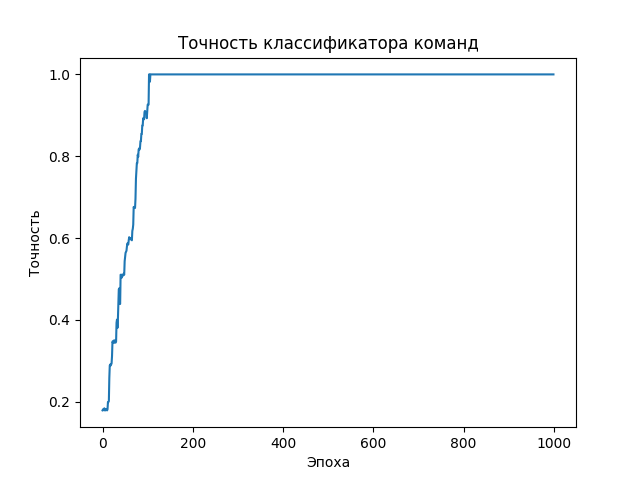
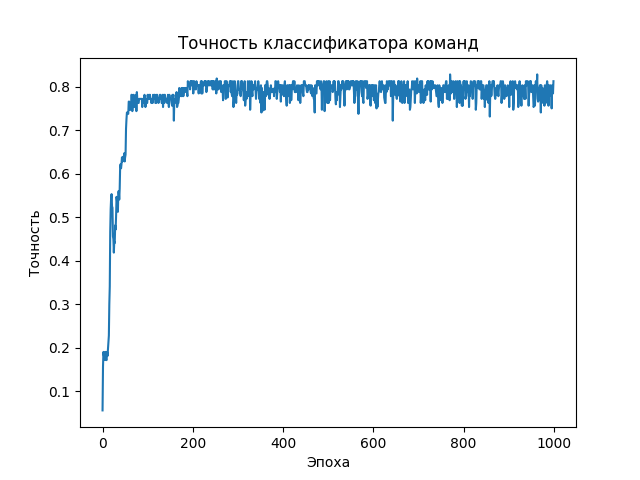
Added word augmentation which slowed down the process of training, but improved neural network

diff --git a/ai/dataset.py b/ai/dataset.py
@@ -3,59 +3,121 @@ from loguru import logger
 
 import torch
 from torch.utils.data import Dataset
+import pymorphy3
 
-from ai.nltk_utils import tokenize, stem, bag_of_words, get_stopwords, filter_numbers
+
+from ai.nltk_utils import tokenize, stem, bag_of_words, get_stopwords, is_number
 from ai import DEVICE
 
-from config.nn import DATASET_FILE_PATH
+from config.nn import DATASET_FILE_PATH, VOCABULARY_FILE_PATH
+
+
+def preprocess(command, pattern):
+    tokens = tokenize(pattern)
+    morph = pymorphy3.MorphAnalyzer()
+    stop_words = get_stopwords()
+    stop_words.extend([".", ","])
+    
+    tokens = [word for word in tokens 
+              if not is_number(word) 
+              and morph.parse(word)[0].score > 0.4
+              and word not in stop_words
+    ]
+    
+    for_vocab = [stem(token) for token in tokens]
+    for_train_data = [(command, [stem(token) for token in tokens])]
+    
+    word_forms = ('gent', 'datv', 'accs', 'ablt', 'loct')
+    for form in word_forms:
+        
+        form_tokens = []
+        for word in tokens:
+            new_word = morph.parse(word)[0].inflect({form})
+            if not new_word:
+                break
+            form_tokens.append(new_word.word)
+            for_vocab.append(stem(new_word.word))
+        
+        if form_tokens:
+            for_train_data.append((command, [stem(token) for token in form_tokens]))
+            
+
+    return for_vocab, for_train_data
+
+
 
 class CommandDataset(Dataset):
     
     __instance = None
     __init_called = False
     
-    def __new__(cls):
+    def __new__(cls, *args, **kwargs):
         if not cls.__instance:
             cls.__instance = super(CommandDataset, cls).__new__(cls)
         return cls.__instance
     
-    def __init__(self) -> None:
+    
+    def __init__(self, for_training=False) -> None:
         if not CommandDataset.__init_called:
             super().__init__()
+            
+            if for_training:
 
-            with open(DATASET_FILE_PATH, "r", encoding="utf-8") as file:
-                self.commands_data = json.load(file)
-
-            self.commands = []
-            self.vocabulary = []
-            self.data = []
-
-            for command_data in self.commands_data:
-                command = command_data["command"]
-                self.commands.append(command)
-
-                for pattern in command_data["patterns"]:
-                    tokens = tokenize(pattern)
-                    self.vocabulary.extend(tokens)
-                    self.data.append((command, tokens))
-
-            stop_words = get_stopwords()
-            stop_words.extend([".", ","])
-            self.vocabulary = [stem(word) for word in self.vocabulary if word not in stop_words]
-            self.vocabulary = filter_numbers(set(self.vocabulary))
-            self.vocabulary = sorted(self.vocabulary)
+                with open(DATASET_FILE_PATH, "r", encoding="utf-8") as file:
+                    self.commands_data = json.load(file)
                     
-            self.x = []
-            self.y = []
-            
-            for command, query in self.data:
-                self.x.append(bag_of_words(query, self.vocabulary))
-                self.y.append(self.commands.index(command))
+
+                self.commands = []
+                self.vocabulary = []
+                self.data = []
+
+                for command_data in self.commands_data:
+                    command = command_data["command"]
+                    self.commands.append(command)
+                    
+                    for pattern in command_data["patterns"]:
+                        for_vocab, for_train_data = preprocess(command, pattern)
+                        
+                        self.vocabulary.extend(for_vocab)
+                        self.data.extend(for_train_data)
+                        
+                self.vocabulary = sorted(set(self.vocabulary))
+
+                new_data = []
+                for record in self.data:
+                    if record not in new_data:
+                        new_data.append(record)
+                        
+                self.data = new_data
+                            
+                with open(VOCABULARY_FILE_PATH, "w", encoding="utf8") as file:
+                    data = {
+                        "data_lenght": len(self.data), 
+                        "commands": self.commands,
+                        "vocabulary": self.vocabulary
+                    }
+                    json.dump(data, file, indent=4, ensure_ascii=False)
                 
-            self.x = torch.tensor(self.x).to(DEVICE)
-            self.y = torch.tensor(self.y).to(DEVICE)
-            
-            self.n_samples = len(self.data)
+                self.x = []
+                self.y = []
+                
+                for command, query in self.data:
+                    self.x.append(bag_of_words(query, self.vocabulary))
+                    self.y.append(self.commands.index(command))
+                    
+                self.x = torch.tensor(self.x).to(DEVICE)
+                self.y = torch.tensor(self.y).to(DEVICE)
+                print(self.x.shape)
+                print(self.y[0])
+                
+                self.n_samples = len(self.data)
+            else:
+                with open(VOCABULARY_FILE_PATH, "r", encoding="utf8") as file:
+                    data = json.load(file)
+                    
+                self.n_samples = data["data_lenght"]
+                self.commands = data["commands"]
+                self.vocabulary = data["vocabulary"]
             
             logger.debug("Dataset initialized")
             CommandDataset.__init_called = True

diff --git a/ai/train.py b/ai/train.py
@@ -9,7 +9,6 @@ from torch.utils.data import DataLoader
 from ai.model import CommandIdentifier
 from ai.dataset import CommandDataset
 from ai import DEVICE
-from tqdm import tqdm
 
 from util import get_path
 
@@ -31,8 +30,10 @@ def train_model() -> None:
 
     This function will create a model, create a DataLoader from the dataset, train the model using the DataLoader, and then save the model to a file.
     """
-    dataset = CommandDataset()
-    model = CommandIdentifier(input_size=len(dataset.vocabulary), hidden_size=8, num_classes=len(dataset.commands))
+    hidden_size = 16
+    
+    dataset = CommandDataset(for_training=True)
+    model = CommandIdentifier(input_size=len(dataset.vocabulary), hidden_size=hidden_size, num_classes=len(dataset.commands))
     model.to(DEVICE)
 
     data_loader = DataLoader(dataset, batch_size=8, shuffle=True)
@@ -65,14 +66,14 @@ def train_model() -> None:
         loss_values.append(loss_val/len(data_loader))
             
         if (epoch + 1) % 50 == 0:
-            print(f"Epoch {epoch+1}: Average loss: {loss_val/len(data_loader):.4f}")
-            print(f"Accuracy: {accuracy_val/len(data_loader):.4f}")
+            print(f"Epoch {epoch+1} >> Average loss: {loss_val/len(data_loader):.4f}, Average accuracy: {accuracy_val/len(data_loader):.4f}")
+            print(f"")
 
     
     data = {
         "model_state": model.state_dict(),
         "input_size": len(dataset.vocabulary),
-        "hidden_size": 8,
+        "hidden_size": hidden_size,
         "output_size": len(dataset.commands),
     }
     torch.save(data, MODEL_FILE_PATH)

diff --git a/transport/train.py b/transport/train.py
@@ -62,7 +62,7 @@ class Train:
                     logger.info(f"Скорость должна быть в пределах от 0 до {self.max_speed}")
                 else:
                     self._speed = new_speed
-                logger.info(f"Ускоряемся на {add_speed}")
+                    logger.info(f"Ускоряемся на {add_speed}")
             
             case "decrease_speed":
                 sub_speed = get_number_from_text(text)
@@ -72,7 +72,7 @@ class Train:
                     logger.info(f"Скорость должна быть в пределах от 0 до {self.max_speed}")
                 else:
                     self._speed = new_speed
-                logger.info(f"Замедляемся на {sub_speed}")
+                    logger.info(f"Замедляемся на {sub_speed}")
             
             case "set_speed":
                 new_speed = get_number_from_text(text)
@@ -81,10 +81,10 @@ class Train:
                     logger.info(f"Скорость должна быть в пределах от 0 до {self.max_speed}")
                 else:
                     self._speed = new_speed
-                logger.info(f"Устанавливаем скорость на {new_speed}")
+                    logger.info(f"Устанавливаем скорость на {new_speed}")
             
             case "stop":
-                self._max_speed = 0
+                self._speed = 0
                 logger.info("Останавливаемся")
             
             case _:

diff --git a/ai/model.py b/ai/model.py
@@ -47,24 +47,28 @@ class CommandIdentifier(nn.Module):
         
         return out
     
+    @logger.catch
     def invoke(self, query):
         dataset = CommandDataset()
         
         sentence = tokenize(query)
         sentence = [stem(word) for word in sentence]
+        sentence = bag_of_words(sentence, dataset.vocabulary)
+
         
-        sentence = bag_of_words(sentence, dataset.vocabulary)     
-        
-        sentence = torch.Tensor(sentence).to(DEVICE)  
+        sentence = torch.Tensor(sentence).to(DEVICE)
+        sentence = sentence.view(1, -1)
         res = self(sentence)
         
         logger.debug("\n" + "\n".join([
             f"{command}{"\t" if len(command) > 4 else "\t\t"}>>\t{probability.item()}" 
-            for command, probability in zip(dataset.commands, res)
+            for command, probability in zip(dataset.commands, res[0])
         ]))
+        
+        logger.debug(res)
 
-        # if all(res < 0):
-        #     return "Непонятная команда"
+        if all(res[0] < 0):
+            return "Непонятная команда"
         
         return dataset.commands[self(sentence).argmax()]
     

diff --git a/ai/nltk_utils.py b/ai/nltk_utils.py
@@ -3,9 +3,8 @@ import nltk
 # nltk.download('punkt_tab')    # Only if not installed
 from nltk.stem.snowball import SnowballStemmer
 from nltk.corpus import stopwords
+import pymorphy3
 import numpy as np
-
-
 
 
 def get_stopwords():
@@ -65,16 +64,10 @@ def bag_of_words(tokenized_words: list, all_words: list) -> np.ndarray:
     return bag       
 
 
-def filter_numbers(tokens):
-    numbers = [
-        "нол", "один", "два", "три", "четыр", "пят", "шест", "сем", "восем", "девя", "деся", 
-        "одиннадца", "двенадца", "тринадца", "четырнадца", "пятнадца", "шестнадца", "семнадца", "восемнадца", "девятнадца",
-        "двадца", "тридца", "сорок", "пятьдес", "шестьдес", "семьдес", "восемьдес", "девян",
-        "сто", "двест", "трист"
-    ]
+def is_number(token):
+    morph = pymorphy3.MorphAnalyzer()
 
-    return [token for  token in tokens if token not in numbers]
-
+    return morph.parse(token)[0].tag.POS == 'NUMR'
 
 
 def get_number_from_text(text):

diff --git a/run.py b/run.py
@@ -1,4 +1,4 @@
-# from speech_recognition import listen
+from speech_recognition import listen
 from ai.model import load_model
 from loguru import logger
 from transport import Train
@@ -12,9 +12,9 @@ def main():
     
     train_id = int(input("Введите id поезда: "))
     train = Train(train_id)
-    # for text in listen():
-    while True:
-        text = input("Введите команду: ")
+    for text in listen():
+    # while True:
+    #     text = input("Введите команду: ")
         
         if text == "выйти":
             logger.info("Вы вышли из программы")         

diff --git a/util/__init__.py b/util/__init__.py
@@ -11,9 +11,5 @@ def get_path(*args):
         raise ValueError("All arguments must be strings")
 
     path = os.path.join(os.path.dirname(__file__), "..", *args)
-    
-    # Check that the path exists
-    if not os.path.exists(path):
-        raise FileNotFoundError("The path does not exist")
 
     return path

diff --git a/config/sr.py b/config/sr.py
@@ -2,8 +2,8 @@ from util import get_path
 
 """Speech Recognition Settings"""
 
-USE_BIG_SR_MODEL = False
-SHOW_SR_LOG = False
+USE_BIG_SR_MODEL = True
+SHOW_SR_LOG = True
 
 BIG_MODEL_PATH = get_path("speech_recognition", "sr_model_big")
 SMALL_MODEL_PATH = get_path("speech_recognition", "sr_model")

diff --git a/config/nn.py b/config/nn.py
@@ -4,4 +4,5 @@ from util import get_path
 
 MODEL_FILE_PATH = get_path("ai", "data", "model.pth")
 DATASET_FILE_PATH = get_path("ai", "data", "dataset.json")
-NN_TRAIN_EPOCHS = 1000
+VOCABULARY_FILE_PATH = get_path("ai", "data", "vocabulary.json")
+NN_TRAIN_EPOCHS = 300

diff --git a/test.py b/test.py
@@ -1,0 +1,4 @@
+import pymorphy3
+morph = pymorphy3.MorphAnalyzer()
+
+print(["привет", "пока"] == ["привет", "пока"])
